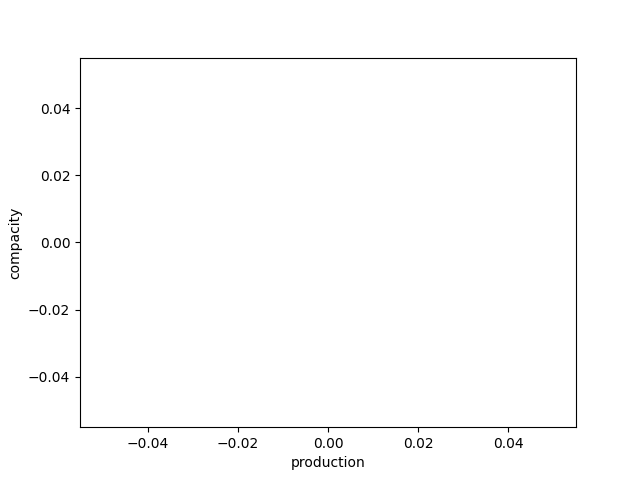
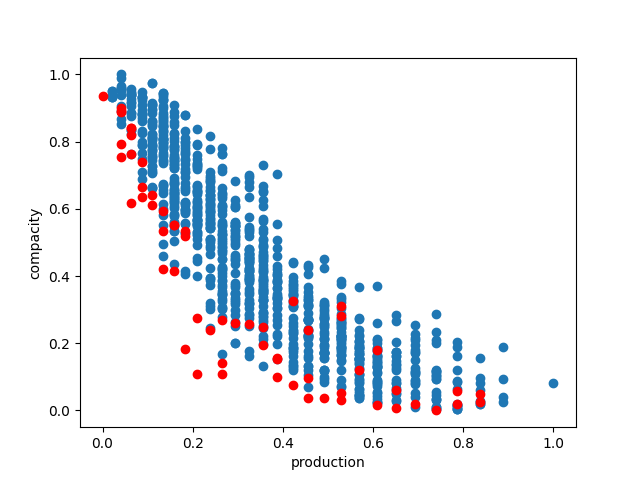
update selection

diff --git a/main.py b/main.py
@@ -151,7 +151,7 @@ def plot_pareto(population):
     fig.canvas.manager.set_window_title("Pareto Graph")
 
     ax.scatter([0], [0], [0], c='g')
-    ax.scatter(liste_compacite, liste_proximite, liste_production, c='b')
+    #ax.scatter(liste_compacite, liste_proximite, liste_production, c='b')
     ax.scatter(pareto_compacite, pareto_proximite, pareto_production, c='r')
     ax.legend()
     ax.set_xlabel("Compacité")
@@ -393,7 +393,6 @@ def genetic_algorithm(initial_population_size, iteration):
             nouvelle_population, initial_population_size)
     print(" Solution Cost: € {:,}".format(
         cost_bought_plot(nouvelle_population[0])))
-    print(nouvelle_population)
     plot_solution(nouvelle_population[0])
     plot_pareto(nouvelle_population)
     return nouvelle_population
@@ -499,6 +498,17 @@ def is_dominant(solution, other_solution):
     Returns:
     bool: True if solution is dominant over other_solution, False otherwise.
     """
+    if solution[1] <= other_solution[1] or solution[2] <= other_solution[2] or solution[3] <= other_solution[3]:
+            return True
+    return False
+
+def is_fully_dominant(solution, other_solution):
+    """
+    Check if a solution is dominant over another solution based on three criteria.
+
+    Returns:
+    bool: True if solution is dominant over other_solution, False otherwise.
+    """
     if solution[1] <= other_solution[1] and solution[2] <= other_solution[2] and solution[3] <= other_solution[3]:
             return True
     return False
@@ -514,7 +524,7 @@ def get_pareto_frontier(solutions):
         is_pareto_optimal = True
         for j, other_solution in enumerate(solutions):
             # Si les solutions sont différentes et qu'elle est dominé, alors elle n'est pas optimal
-            if i != j and is_dominant(other_solution, solution):
+            if i != j and is_fully_dominant(other_solution, solution):
                 is_pareto_optimal = False
                 remaining_solutions.append(solution)
                 break
@@ -540,7 +550,7 @@ if __name__ == "__main__":
     """2: INITIAL POPULATION """
 
     # Generate initial population randomly ⇾ cover as much as possible the solution space
-    population_amelioree = genetic_algorithm(1000, 100)
+    population_amelioree = genetic_algorithm(500, 1000)
 
     """4: Pareto Frontier"""
 
@@ -552,3 +562,6 @@ if __name__ == "__main__":
     # Rank the solutions from the Pareto Frontier according to ELECTRE/PROMETHEE.
 
     """(?) 6: Variant to the problem (BONUS) (?)"""
+
+
+
